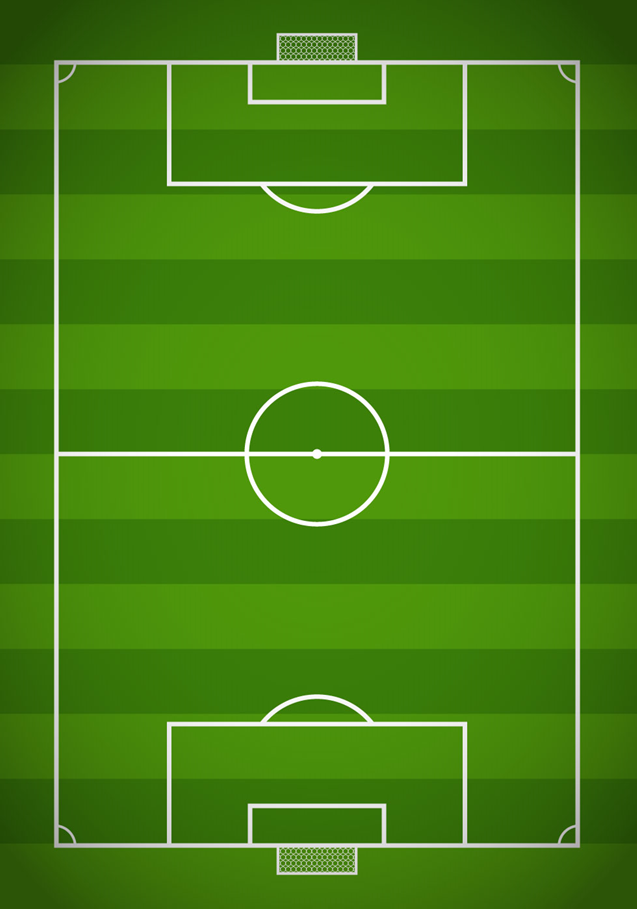
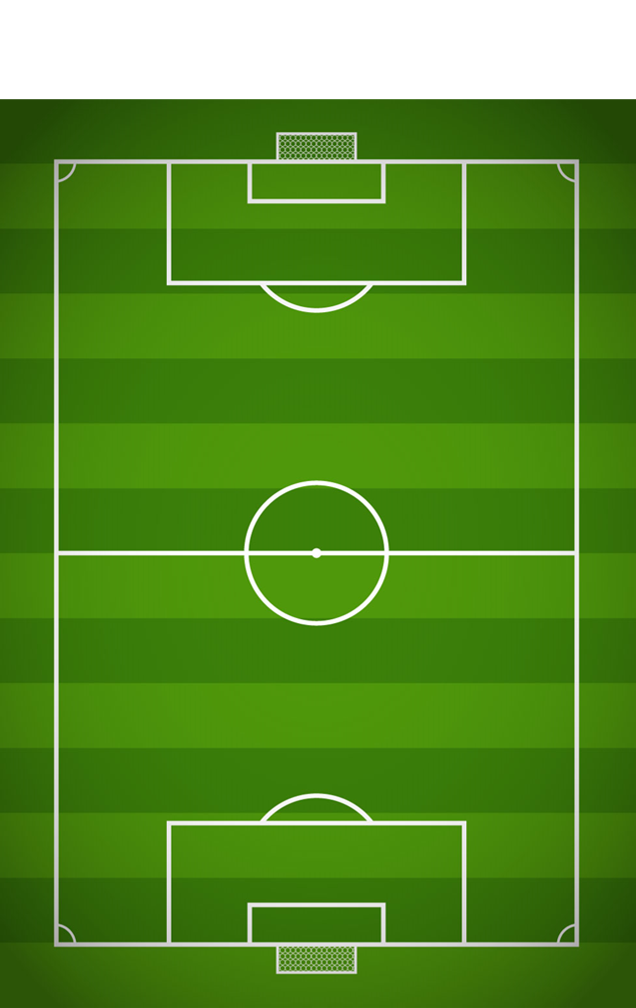
nuovo campo

diff --git a/src/app/views/page/schieramento/schieramento.component.html b/src/app/views/page/schieramento/schieramento.component.html
@@ -44,9 +44,9 @@
                 <div *ngIf="ele.tipo=='P'">
                   <img src="assets/caricature/{{ele.icona}}.png" class="avatar" width="40px" />
                   <div class="squadra-box">
-                  <div>{{ele.tipo+" "+ele.nickname}}</div>
+                    <div>{{ele.tipo+" "+ele.nickname}}</div>
+                  </div>
                 </div>
-              </div>
               </div>
             </div>
 
@@ -55,9 +55,9 @@
                 <div *ngIf="ele.tipo=='D'">
                   <img src="assets/caricature/{{ele.icona}}.png" class="avatar" width="40px" />
                   <div class="squadra-box">
-                  <div>{{ele.tipo+" "+ele.nickname}}</div>
+                    <div>{{ele.tipo+" "+ele.nickname}}</div>
+                  </div>
                 </div>
-              </div>
               </div>
             </div>
 
@@ -66,9 +66,9 @@
                 <div *ngIf="ele.tipo=='C'">
                   <img src="assets/caricature/{{ele.icona}}.png" class="avatar" width="40px" />
                   <div class="squadra-box">
-                  <div>{{ele.tipo+" "+ele.nickname}}</div>
+                    <div>{{ele.tipo+" "+ele.nickname}}</div>
+                  </div>
                 </div>
-              </div>
               </div>
             </div>
 
@@ -77,9 +77,9 @@
                 <div *ngIf="ele.tipo=='A'">
                   <img src="assets/caricature/{{ele.icona}}.png" class="avatar" width="40px" />
                   <div class="squadra-box">
-                  <div>{{ele.tipo+" "+ele.nickname}}</div>
+                    <div>{{ele.tipo+" "+ele.nickname}}</div>
+                  </div>
                 </div>
-              </div>
               </div>
             </div>
 

diff --git a/src/app/views/page/schieramento/schieramento.component.scss b/src/app/views/page/schieramento/schieramento.component.scss
@@ -7,14 +7,14 @@
 /*SQUADRA*/
 
 .squadra-list {
-	border: solid 1px #ccc;
+	
 	background: url('~src/assets/img/campo_formazioni.png');
 	background-repeat: no-repeat, repeat;
 	background-size: cover;
 	min-height: 240px;
 	min-width: 240px;
     max-width: 480px;
-	padding-top: 32px;
+	padding-top: 16px;
 	padding-right: 8px;
 	padding-left: 8px;
 	padding-bottom: 16px;
